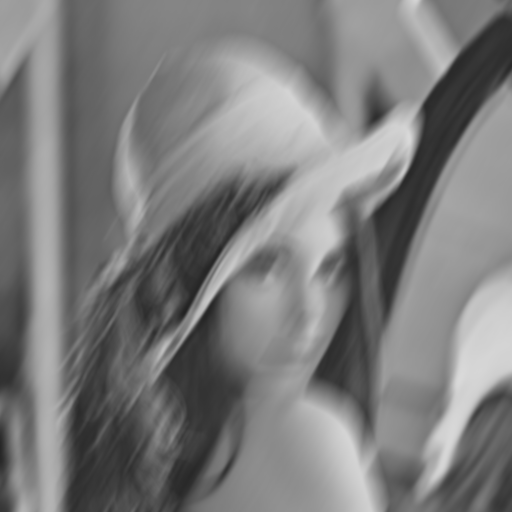
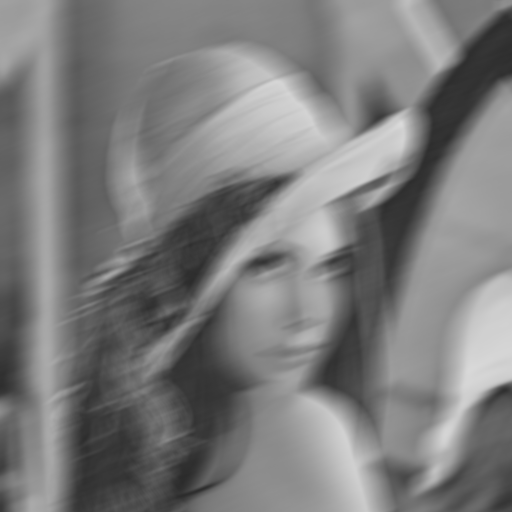
seperated deblur filter from angle and length prediction

diff --git a/deblur.py b/deblur.py
@@ -13,24 +13,10 @@ img_FFT = np.fft.fft2(img)
 img_FFT = np.fft.fftshift(img_FFT)
 magnitude_spectrum = 10*np.log(np.abs(img_FFT))
 
-#determine blur angle using Gabor filter
-max_norm =0
-max_angle=0
-for angles in range(180):
-    G = cv2.getGaborKernel((11,11),3,angles,2,1)
-    temp_img = cv2.filter2D(magnitude_spectrum,-1,G)
-    temp_norm = cv2.norm(temp_img)
-    print(temp_norm)
-    if temp_norm>max_norm:
-        max_norm = temp_norm
-        max_angle = angles
-print('max response at ' + str(max_angle))
 
-
-
-theta =   60
+theta =   50
 #determine blur length using radial basis function network
-blength = 30
+blength = 10
 
 
 #compute point spread function
@@ -81,12 +67,6 @@ mag_PSF = 10*np.log(np.abs(PSF_fft))
 
 cv2.imshow('img',img.astype(np.uint8))
 
-G = cv2.getGaborKernel((11, 11), 3, max_angle, 2, 1)
-temp_img = cv2.filter2D(magnitude_spectrum, -1, G)
-temp_img = 10*np.log(np.abs(temp_img))
-
-
-cv2.imshow('Gabor',temp_img.astype(np.uint8))
 
 cv2.imshow('img_fft',magnitude_spectrum.astype(np.uint8))
 cv2.imshow('Output FFT',mag_out.astype(np.uint8))

diff --git a/get_angle.py b/get_angle.py
@@ -1,0 +1,38 @@
+import numpy as np
+import cv2
+
+img = cv2.imread('blurred.png',0)
+(img_rows,img_cols) = img.shape
+print('rows '+ str(img_rows))
+print('cols '+ str(img_cols))
+
+img_FFT = np.fft.fft2(img)
+img_FFT = np.fft.fftshift(img_FFT)
+img_abs = np.abs(img_FFT)
+magnitude_spectrum = 10*np.log(np.abs(img_FFT))
+
+#determine blur angle using Gabor filter
+max_norm =0
+max_angle=0
+for angles in range(0,90,3):
+    G = cv2.getGaborKernel((13,13),3,angles,1.25,1)
+    G = cv2.normalize(G,G)
+    temp_img = cv2.filter2D(img_abs,-1,G,cv2.CV_32F)
+    temp_norm = np.linalg.norm(temp_img)
+   # temp_img = 10 * np.log(np.abs(temp_img))
+    cv2.imshow('temp' + str(angles), np.abs(temp_img).astype(np.uint8))
+
+    print(angles)
+    print(temp_norm)
+    if temp_norm>max_norm:
+        max_norm = temp_norm
+        max_angle = angles
+print('max response at ' + str(max_angle))
+
+G = cv2.getGaborKernel((15,15),5,60,1.75,1)
+G = G*255
+cv2.imshow('gabor',np.abs(G).astype(np.uint8))
+
+
+cv2.waitKey(0)
+cv2.destroyAllWindows()

diff --git a/blur.py b/blur.py
@@ -12,7 +12,7 @@ print('rows '+ str(img_rows))
 print('cols '+ str(img_cols))
 
 #deg to rad
-theta = 60
+theta = 20
 blength = 30
 
 #compute point spread function
